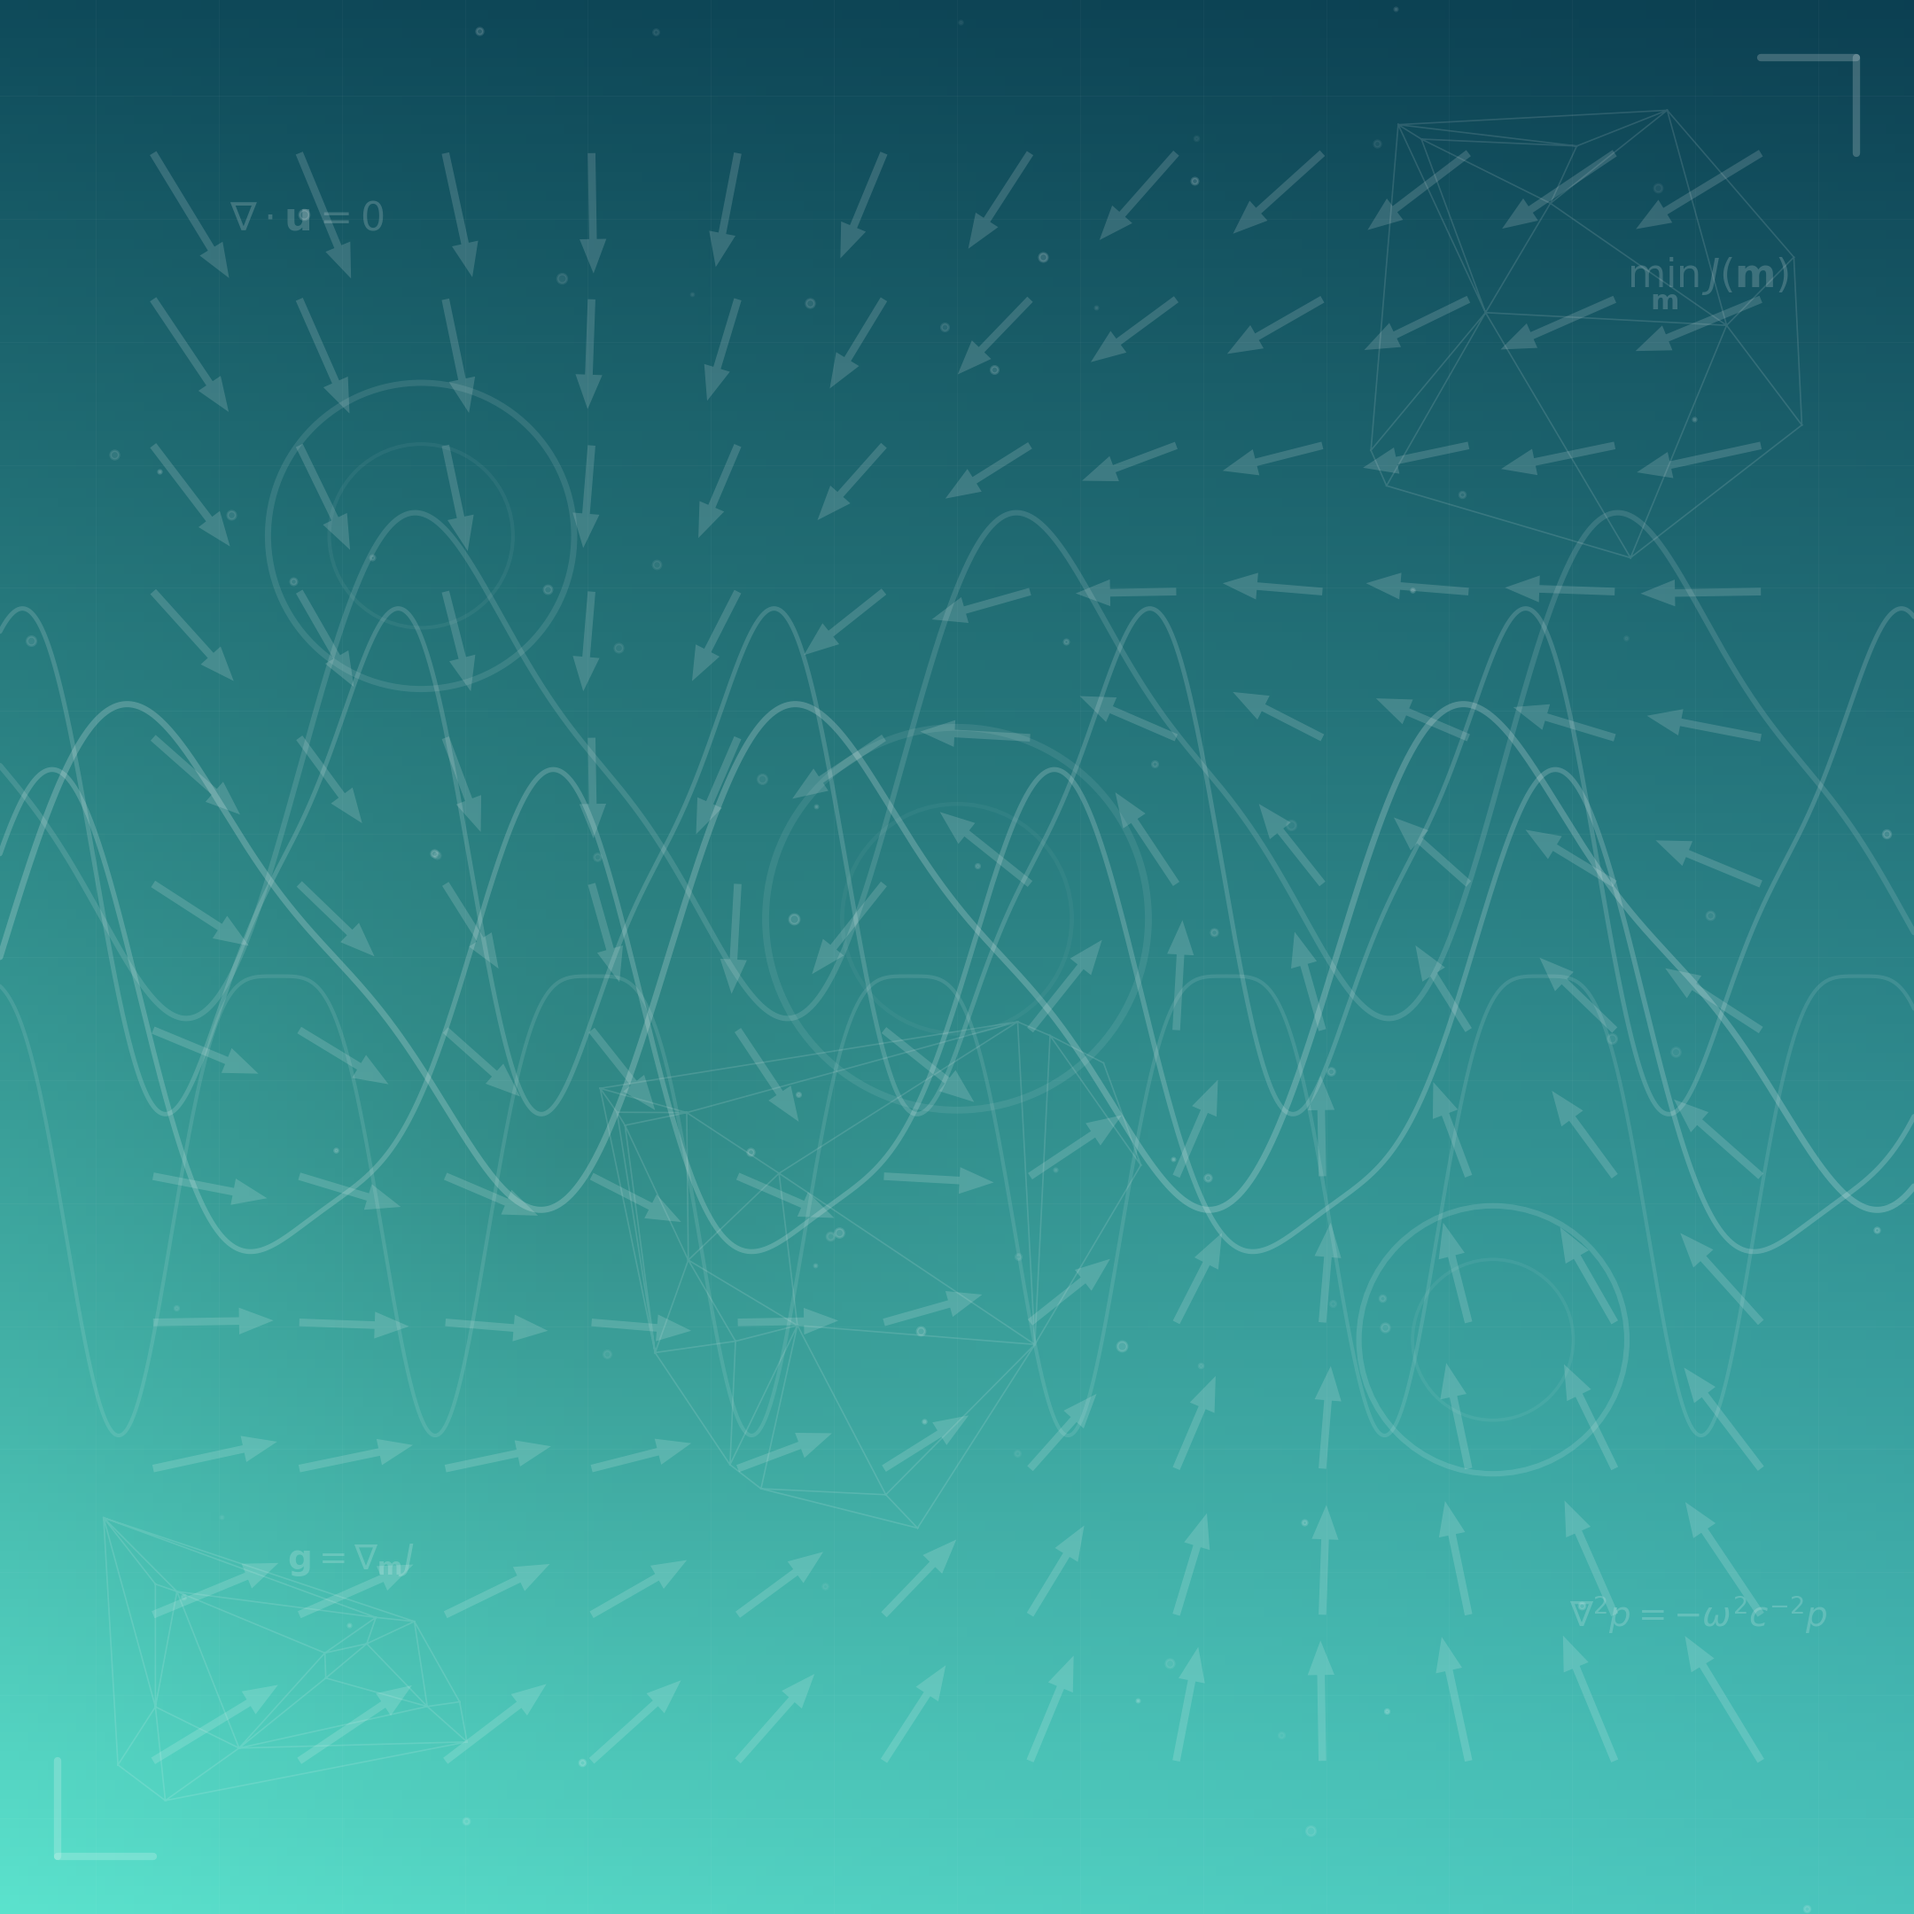
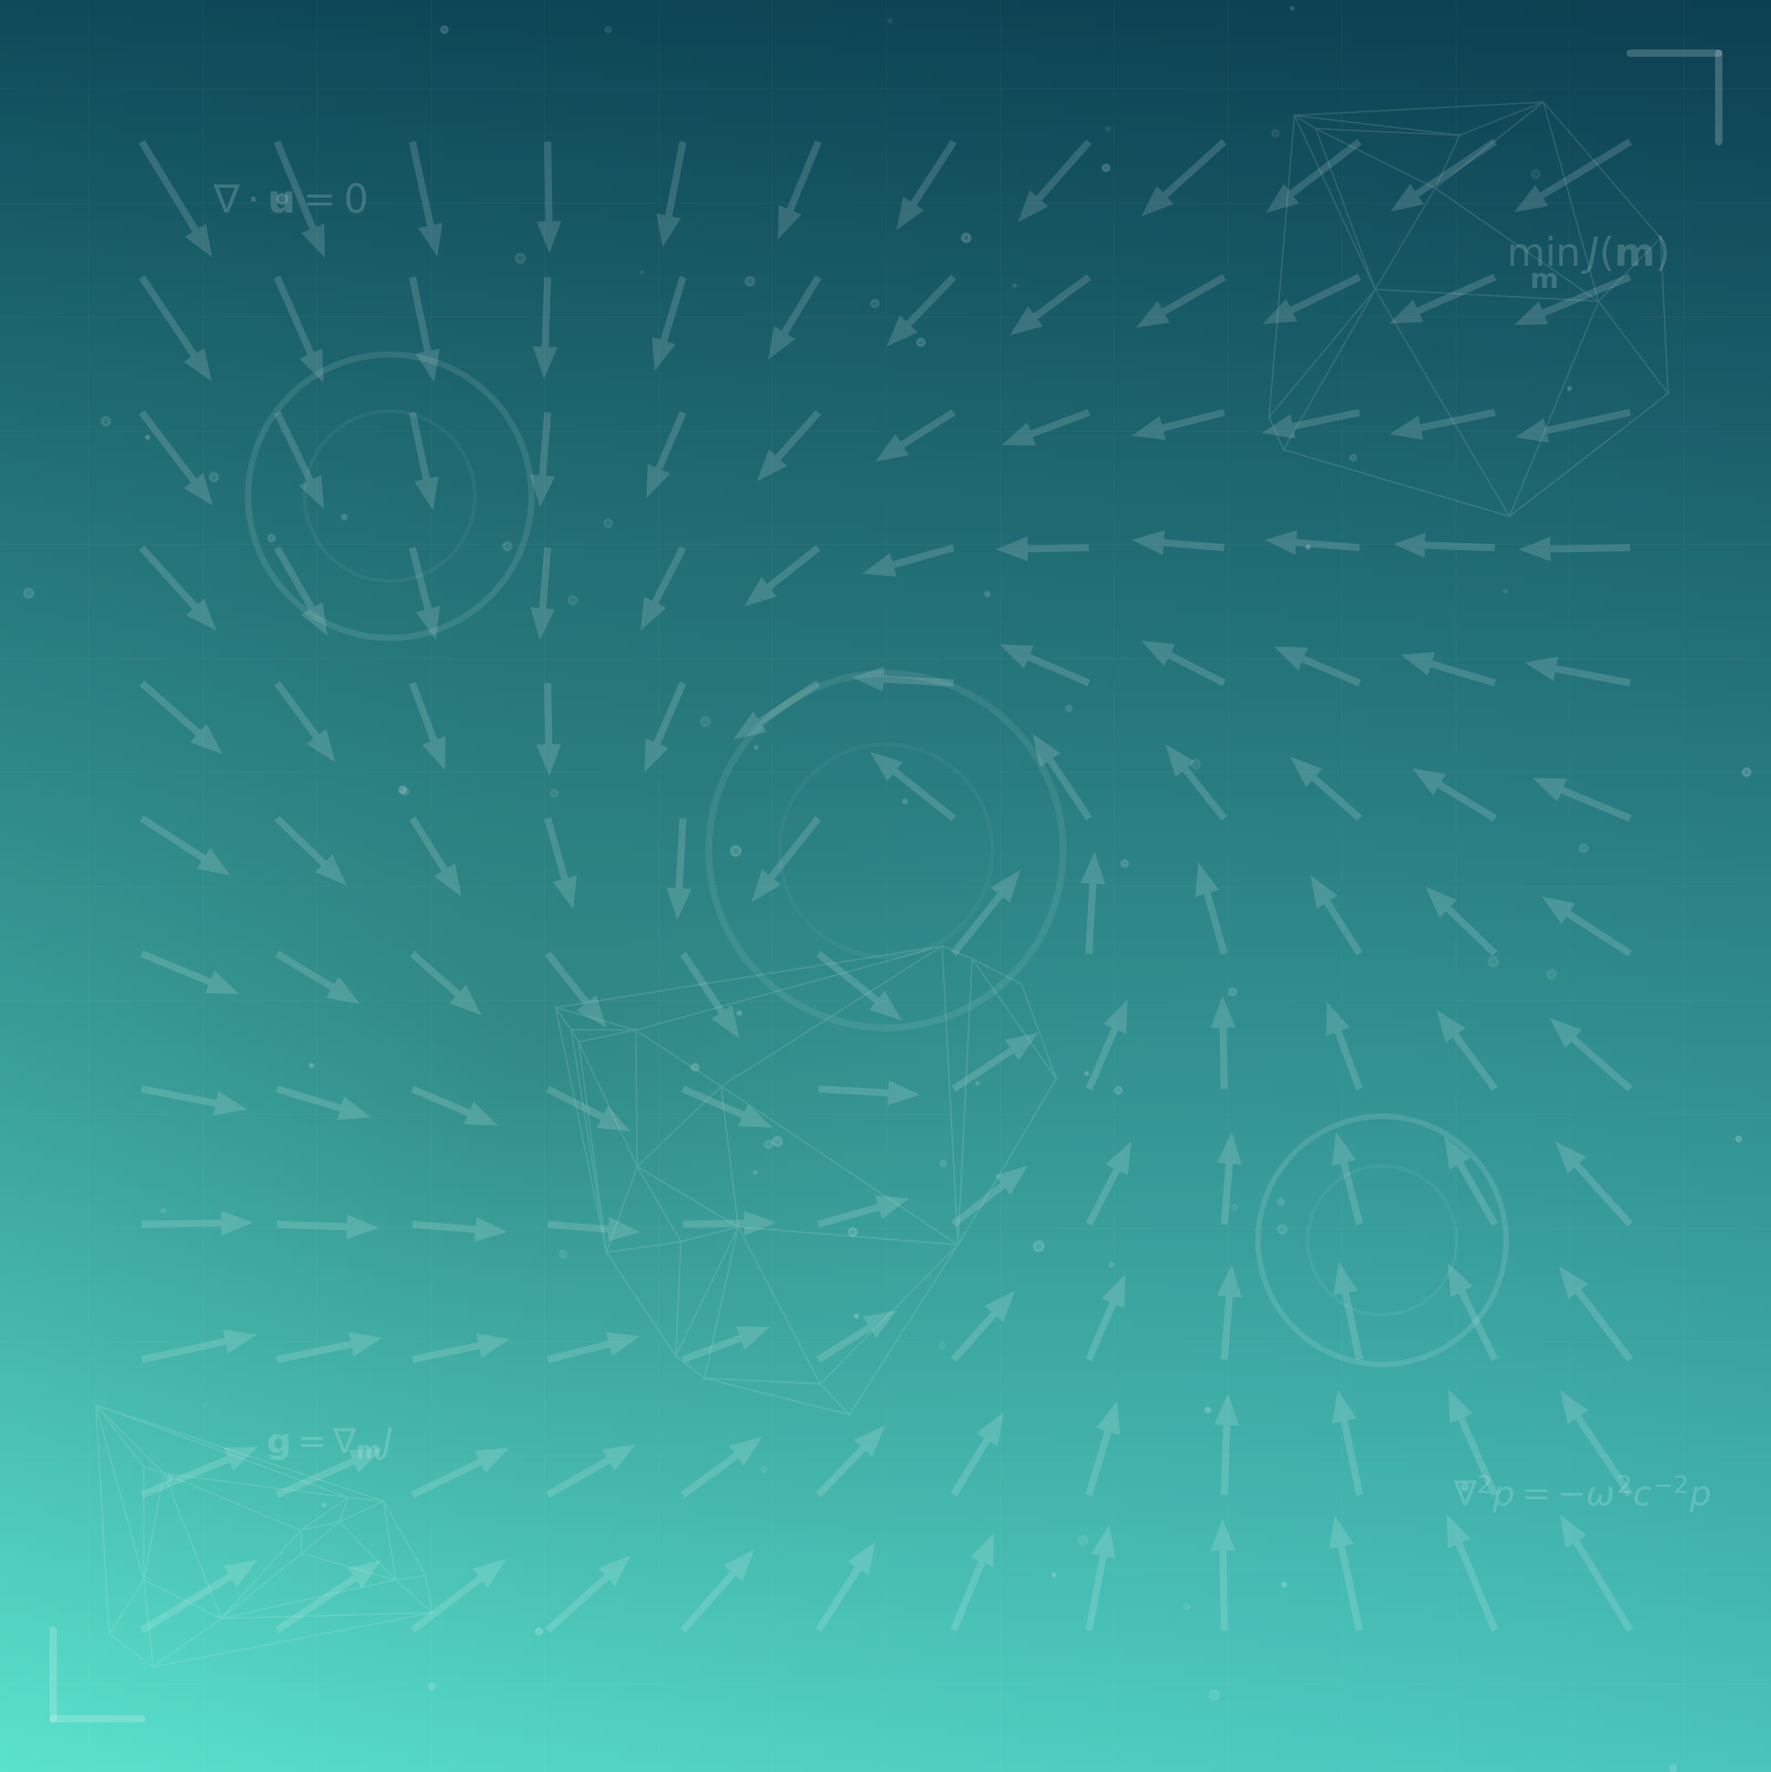
Remove sinusoidal waves from background and adjust dimensions for better page fit

diff --git a/generate_background_v2.py b/generate_background_v2.py
@@ -11,8 +11,8 @@ import matplotlib.pyplot as plt
 from matplotlib.patches import Circle
 from matplotlib.tri import Triangulation
 
-# Set high resolution for crisp output
-fig = plt.figure(figsize=(19.2, 10.8), dpi=200)
+# Set dimensions to match typical browser aspect ratio (wider)
+fig = plt.figure(figsize=(24, 10), dpi=200)
 ax = plt.gca()
 
 # Create sophisticated multi-layer gradient background
@@ -37,20 +37,6 @@ radial_factor = 1 - 0.15 * np.exp(-radial * 3)
 
 background = np.dstack([R * radial_factor, G * radial_factor, B * radial_factor])
 ax.imshow(background, extent=[0, 10, 0, 10], aspect='auto', alpha=1.0)
-
-# Add elegant wave patterns with varying opacity and thickness
-t = np.linspace(0, 10, 2000)
-wave_configs = [
-    (1.8, 0, 0.20, 2.5, 5.0),
-    (2.4, np.pi/3, 0.18, 2.0, 4.5),
-    (3.2, np.pi/2, 0.15, 1.8, 5.5),
-    (2.0, np.pi, 0.12, 2.2, 6.0),
-    (3.8, 3*np.pi/4, 0.10, 1.5, 4.0)
-]
-
-for freq, phase, alpha_val, lw, offset in wave_configs:
-    y_wave = offset + 1.2 * np.sin(freq * t + phase) + 0.3 * np.sin(freq * 2 * t)
-    ax.plot(t, y_wave, 'white', linewidth=lw, alpha=alpha_val, solid_capstyle='round')
 
 # Create elegant finite element mesh - structured regions
 np.random.seed(42)
